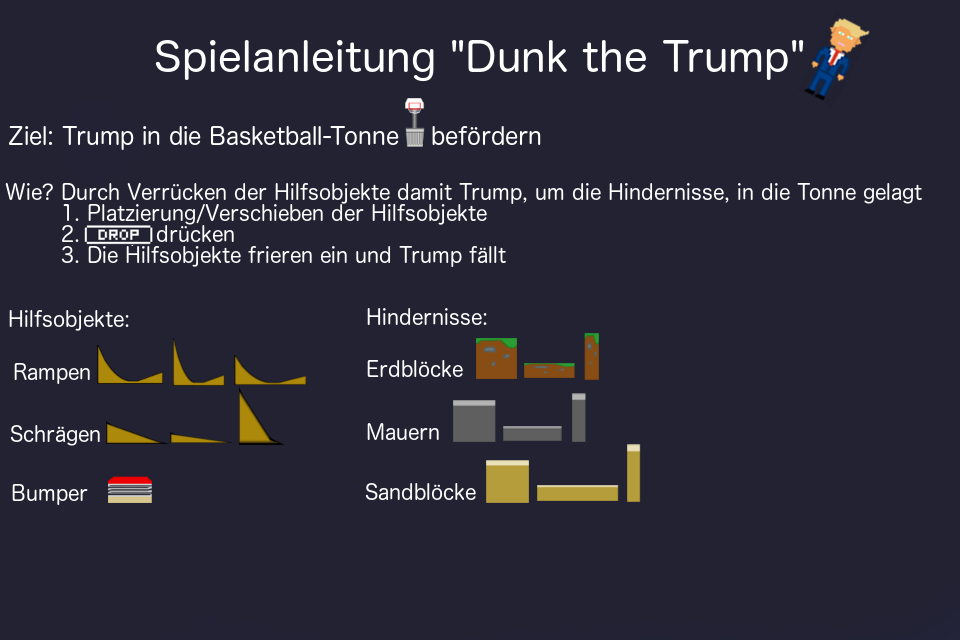
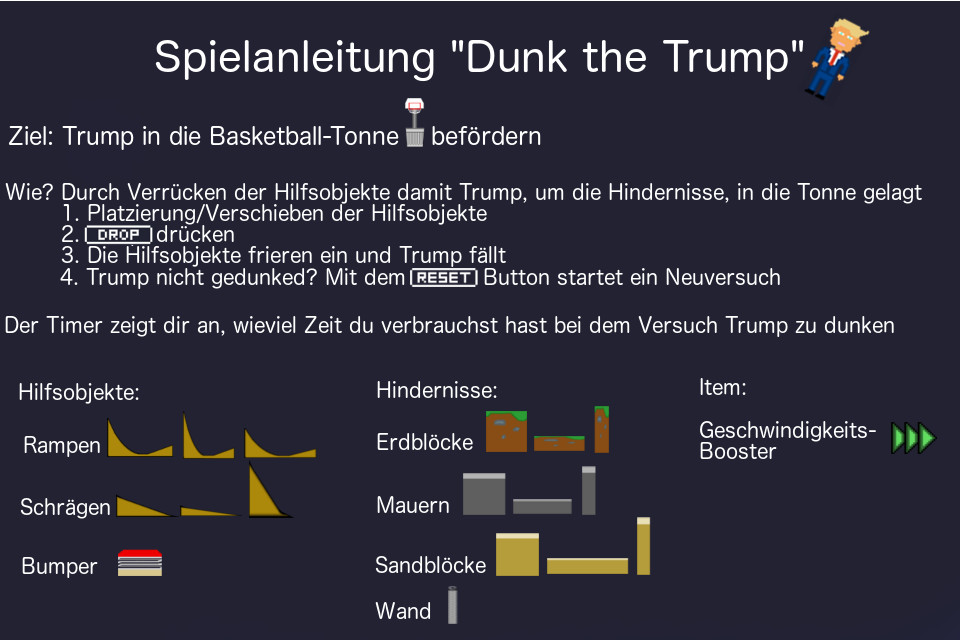
Added Guide + some additions to the easy level

diff --git a/Classes/LevelEasyScene.cpp b/Classes/LevelEasyScene.cpp
@@ -33,14 +33,15 @@ bool LevelEasyScene::init()
 		return false;
 	}
 
-	// Examples:
 	// Add helper objects
 	auto slopeMedium = SlopeSprite::createSlopeSprite(SlopeSprite::TYPE_MEDIUM);
 	slopeMedium->setPosition(Point(visibleSize.width * 0.15 + origin.x, visibleSize.height * 0.5));
+	slopeMedium->setScale(0.7f);
 	this->addChild(slopeMedium);
 
 	auto slopeSteep = SlopeSprite::createSlopeSprite(SlopeSprite::TYPE_STEEP);
 	slopeSteep->setPosition(Point(visibleSize.width * 0.15 + origin.x, visibleSize.height * 0.8));
+	slopeSteep->setScale(0.7f);
 	this->addChild(slopeSteep);
 
 	auto bumper = BumperSprite::createBumperSprite();
@@ -52,28 +53,37 @@ bool LevelEasyScene::init()
 	ramp->setPosition(Point(visibleSize.width * 0.85 + origin.x, visibleSize.height * 0.9));
 	this->addChild(ramp);
 
+	auto ramp2 = RampSprite::createRampSprite(RampSprite::TYPE_FLAT);
+	ramp2->setPosition(Point(visibleSize.width * 0.65 + origin.x, visibleSize.height * 0.75));
+	this->addChild(ramp2);
+
 	// Add all helper objects to the helperObjects Vector
 	GenericLevelScene::helperObjects.pushBack(slopeMedium);
 	GenericLevelScene::helperObjects.pushBack(slopeSteep);
 	GenericLevelScene::helperObjects.pushBack(bumper);
 	GenericLevelScene::helperObjects.pushBack(ramp);
-
-
+	GenericLevelScene::helperObjects.pushBack(ramp2);
 
 
 	// Add obstacles
 	auto wall = WallSprite::createWallSprite();
-	wall->setPosition(Point(visibleSize.width * 0.98 + origin.x, visibleSize.height * 0.41));
+	wall->setPosition(Point(visibleSize.width * 0.965 + origin.x, visibleSize.height * 0.41));
 	this->addChild(wall);
 
 	auto block = BlockSprite::createBlockSprite(BlockSprite::TYPE_SQUARE_EARTH);
-	block->setPosition(Point(visibleSize.width * 0.5 + origin.x, visibleSize.height * 0.65));
+	block->setPosition(Point(visibleSize.width * 0.45 + origin.x, visibleSize.height * 0.65));
+	block->setScale(0.8f);
 	this->addChild(block);
 
+	auto block2 = BlockSprite::createBlockSprite(BlockSprite::TYPE_HORIZONTAL_EARTH);
+	block2->setPosition(Point(visibleSize.width * 0.9 + origin.x, visibleSize.height * 0.60));
+	block2->setScale(0.55f);
+	this->addChild(block2);
+
 	// Add all obstacle object to the helperObjects Vector
-	// GenericLevelScene::obstacleObjects.pushBack(wall);
 	GenericLevelScene::obstacleObjects.pushBack(block);
     GenericLevelScene::obstacleObjects.pushBack(wall);
+	GenericLevelScene::obstacleObjects.pushBack(block2);
 
 	return true;
 }

diff --git a/Classes/GuideScene.cpp b/Classes/GuideScene.cpp
@@ -1,0 +1,60 @@
+#include "GuideScene.h"
+#include "MainMenuScene.h"
+#include "cocostudio/CocoStudio.h"
+#include "ui/CocosGUI.h"
+#include "GlobalValues.h"
+
+USING_NS_CC;
+
+Scene* GuideScene::createScene()
+{
+    // 'scene' is an autorelease object
+    auto scene = Scene::create();
+    
+    // 'layer' is an autorelease object
+    auto layer = GuideScene::create();
+
+    // add layer as a child to scene
+    scene->addChild(layer);
+
+    // return the scene
+    return scene;
+}
+
+// on "init" you need to initialize your instance
+bool GuideScene::init()
+{
+    //////////////////////////////
+    // 1. super init first
+	if (!LayerColor::initWithColor(Color4B(bgColorRed, bgColorGreen, bgColorBlue, bgColorAlpha)))
+    {
+        return false;
+    }
+
+	auto visibleSize = Director::getInstance()->getVisibleSize();
+	auto origin = Director::getInstance()->getVisibleOrigin();
+
+	// Background
+	auto backGround = Sprite::create("Spielanleitung.png");
+	backGround->setPosition(Point(visibleSize.width * 0.5 + origin.x, visibleSize.height * 0.5 + origin.y + bottomBarOffset / 2));
+	this->addChild(backGround);
+
+	// Back Button
+	auto backButtonMenuItem = MenuItemImage::create(spriteBackButton, spriteBackButton,
+		CC_CALLBACK_1(GuideScene::goToMainMenuScene, this));
+	backButtonMenuItem->setPosition(Point(visibleSize.width * bottomButtonBarLeft + origin.x,
+		visibleSize.height * bottomButtonBarVerticalFactor + origin.y));
+
+	auto menu = Menu::create(backButtonMenuItem, NULL);
+	menu->setPosition(Point::ZERO);
+	this->addChild(menu);
+
+  
+    return true;
+}
+
+void GuideScene::goToMainMenuScene(cocos2d::Ref *sender)
+{
+	auto scene = MainMenuScene::createScene();
+	Director::getInstance()->replaceScene(TransitionFade::create(transitionDuration, scene));
+}

diff --git a/Classes/GenericLevelScene.cpp b/Classes/GenericLevelScene.cpp
@@ -114,7 +114,7 @@ bool GenericLevelScene::init()
 	auto playerBody = MyBodyParser::getInstance()->bodyFormJson(player, "Trump", PhysicsMaterial(0.1f, 0.5f, 0.05f));
 	if (playerBody != nullptr)
 	{
-		playerBody->setMass(120.0f);
+		playerBody->setMass(140.0f);
 		playerBody->setDynamic(false);
 		playerBody->setCollisionBitmask(colBitMaskPlayer);
 		playerBody->setContactTestBitmask(true);
@@ -483,10 +483,12 @@ void GenericLevelScene::HandleBumperCollision(cocos2d::Sprite * bumperSprite)
 		{
 			bumperSprite->runAction(bumperAnimate);
 		}
-		if (player->getNumberOfRunningActions() == 0)
+		if (player->getNumberOfRunningActions() > 0)
 		{
-			player->runAction(playerBumperAnimate);
+			player->stopAllActions();
 		}
+		player->runAction(playerBumperAnimate);
+
 		SimpleAudioEngine::getInstance()->playEffect("audio/boing.wav");
 	}
 	else

diff --git a/Classes/GuideScene.h b/Classes/GuideScene.h
@@ -1,0 +1,23 @@
+#ifndef __GUIDE_SCENE_H__
+#define __GUIDE_SCENE_H__
+
+#include "cocos2d.h"
+
+class GuideScene : public cocos2d::LayerColor
+{
+public:
+    // there's no 'id' in cpp, so we recommend returning the class instance pointer
+    static cocos2d::Scene* createScene();
+
+    // Here's a difference. Method 'init' in cocos2d-x returns bool, instead of returning 'id' in cocos2d-iphone
+    virtual bool init();
+
+    // implement the "static create()" method manually
+    CREATE_FUNC(GuideScene);
+
+private:
+	void goToMainMenuScene(cocos2d::Ref *sender);
+
+};
+
+#endif // __GUIDE_SCENE_H__

diff --git a/Classes/MainMenuScene.cpp b/Classes/MainMenuScene.cpp
@@ -6,6 +6,7 @@
 #include "LevelEasyScene.h"
 #include "LevelMediumScene.h"
 #include "LevelHardScene.h"
+#include "GuideScene.h"
 
 USING_NS_CC;
 
@@ -97,7 +98,8 @@ void MainMenuScene::goToMainLevel3Scene(cocos2d::Ref *sender)
 
 void MainMenuScene::goToGuideScene(cocos2d::Ref *sender)
 {
-	// TODO Transition to Guide
+	auto scene = GuideScene::createScene();
+	Director::getInstance()->replaceScene(TransitionFade::create(transitionDuration, scene));
 }
 
 void MainMenuScene::goToStartMenuScene(cocos2d::Ref *sender) 

diff --git a/Classes/LevelMediumScene.cpp b/Classes/LevelMediumScene.cpp
@@ -15,7 +15,7 @@ USING_NS_CC;
 Scene* LevelMediumScene::createScene()
 {
 	auto scene = Scene::createWithPhysics();;
-	scene->getPhysicsWorld()->setDebugDrawMask(PhysicsWorld::DEBUGDRAW_ALL);
+	//scene->getPhysicsWorld()->setDebugDrawMask(PhysicsWorld::DEBUGDRAW_ALL);
 	scene->getPhysicsWorld()->setGravity(Vec2(0.0f, gravity));
 	auto layer = LevelMediumScene::create();
 

diff --git a/Classes/AppDelegate.cpp b/Classes/AppDelegate.cpp
@@ -35,7 +35,7 @@ bool AppDelegate::applicationDidFinishLaunching() {
     director->getOpenGLView()->setDesignResolutionSize(960, 640 + bottomBarOffset, ResolutionPolicy::SHOW_ALL);
 
     // turn on display FPS
-    director->setDisplayStats(true);
+    // director->setDisplayStats(true);
 
 
     // set FPS. the default value is 1.0/60 if you don't call this

diff --git a/Classes/MainMenuScene.h b/Classes/MainMenuScene.h
@@ -25,7 +25,6 @@ private:
 	void goToGuideScene(cocos2d::Ref *sender);
 
 	void goToStartMenuScene(cocos2d::Ref *sender);
-
 };
 
 #endif // __MAINMENU_SCENE_H__
